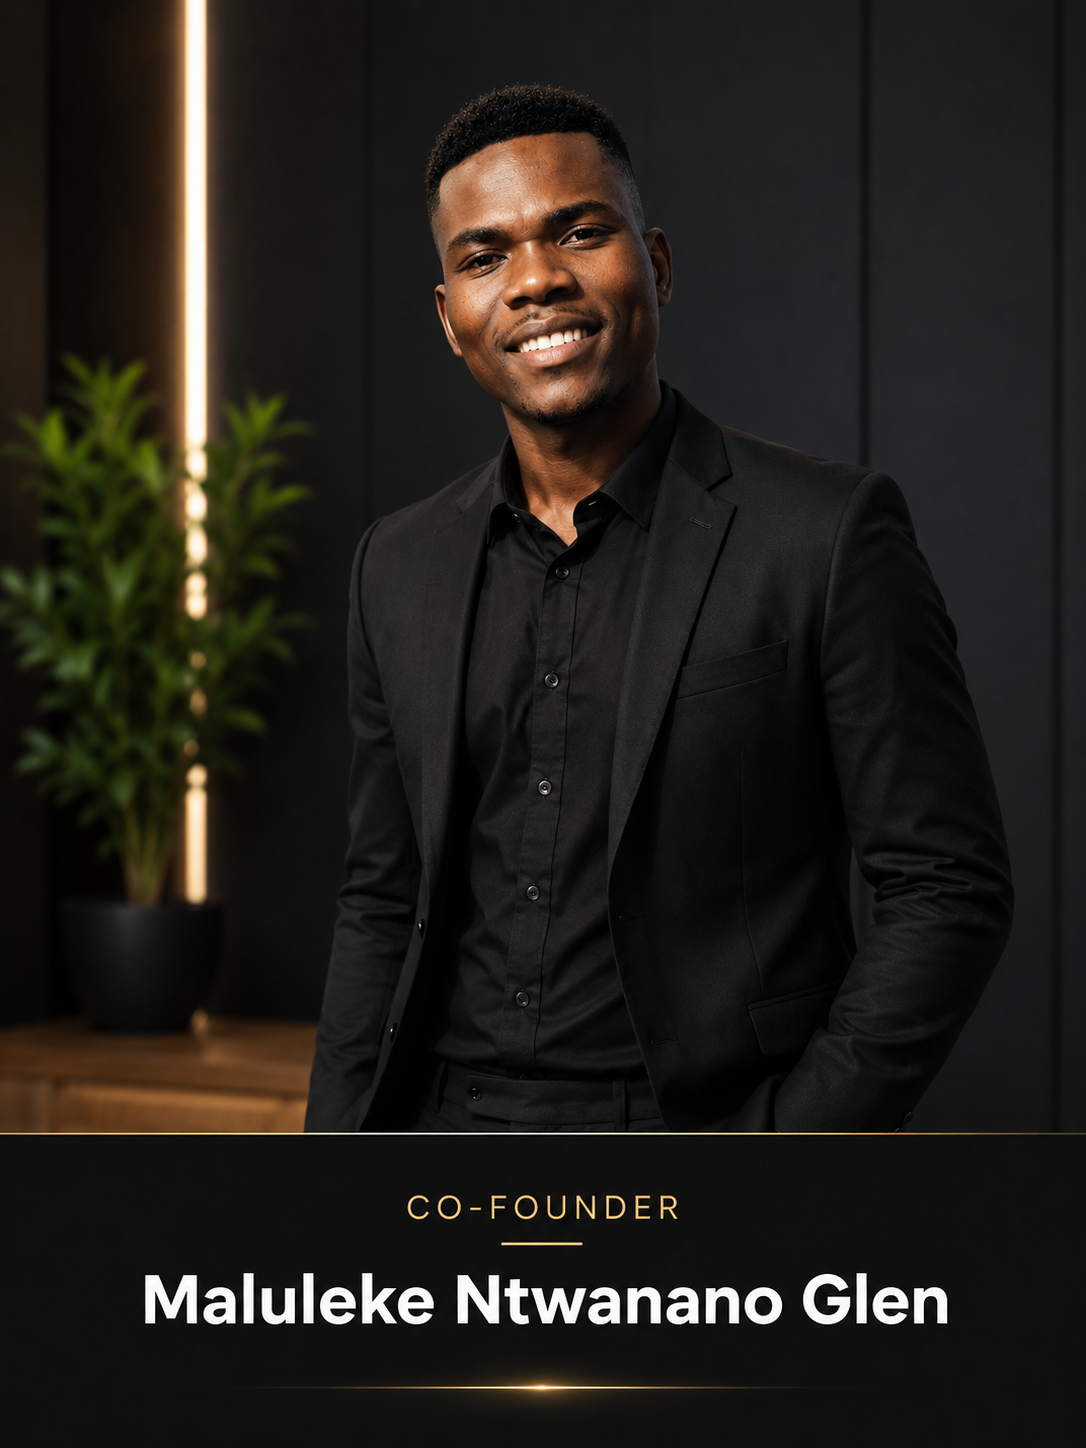
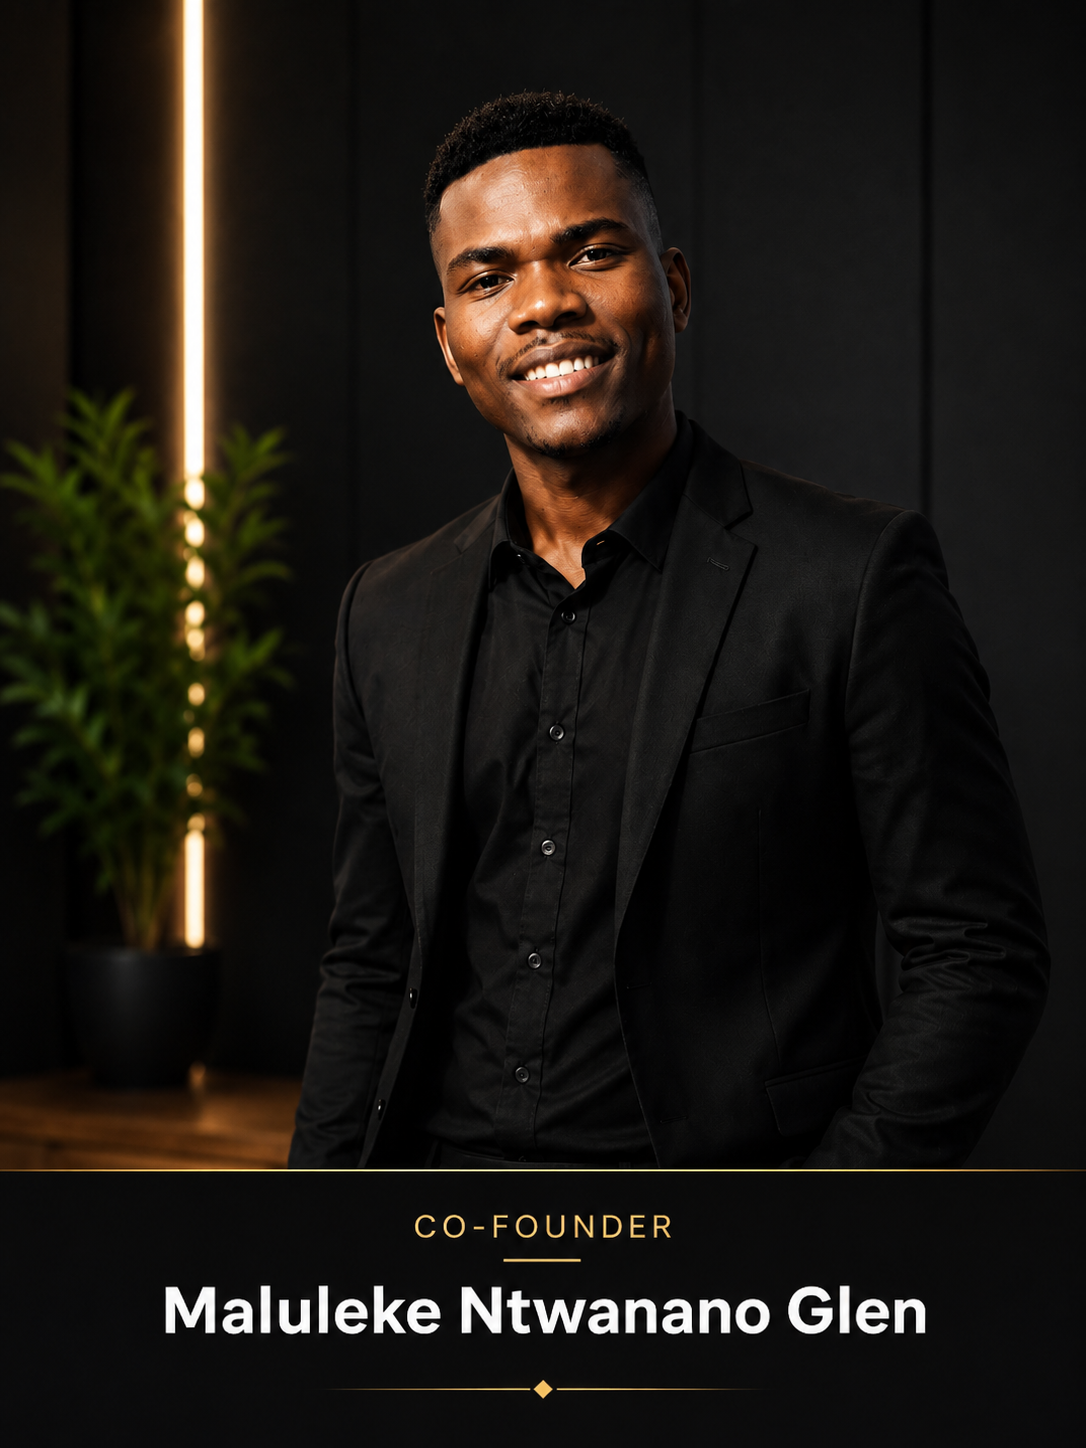
chore(website): the founders' portraits, re-cut as a matching set (#240)
All four brothers now share one treatment: same dark studio background, same
3:4 frame at 1086x1448, same gold role line and name band across the foot.

This settles three things the hero was working around. Kurhula had no card at
all — a raw photograph on a tan background — so as the first slide every visitor
saw, he read weaker than the other three; he now carries FOUNDER & CHAIRMAN like
the rest carry theirs. Risima's was square while the others were 3:4, which made
his slide sit visibly wider and drift further across the headline. And his was
on light grey, so the blurred wash behind the hero jumped from dark to bright
and back on every rotation. All four are dark now, and the cycle is seamless.

Kurhula's file changes extension with the re-cut, so the reference follows it
from .jpg to .png.

Also corrects his surname: the data said "Malulele Risima Blessing" while his
own portrait, the filename, and his brothers all say Maluleke. The About page
had been spelling a founder's name wrong.

Both apps carry their own copy of these images; both are updated and verified
byte-identical.

Verified in the browser: all four render sharp and correctly framed, the name
band is legible above the hero's bottom bleed, and the rotation advances cleanly
between them. Browsers are served AVIF at roughly 55KB per portrait, not the
1.5MB source. turbo typecheck lint test 13/13 green, turbo build 3/3 green.

Worth knowing for next time: Next caches optimised images under
[…]

diff --git a/apps/website/lib/founders.ts b/apps/website/lib/founders.ts
@@ -20,7 +20,7 @@ export interface Founder {
 
 export const FOUNDERS: readonly Founder[] = [
   {
-    photo: '/founders/maluleke-kurhula-success.jpg',
+    photo: '/founders/maluleke-kurhula-success.png',
     name: 'Maluleke Kurhula Success',
     title: 'Founder & Chairman',
     bio: 'The visionary behind Xkimm Xa Mali Foundation. Kurhula identified the need for a disciplined, technology-powered approach to communal savings and built the platform from the ground up.',
@@ -37,7 +37,7 @@ export const FOUNDERS: readonly Founder[] = [
   },
   {
     photo: '/founders/maluleke-risima-blessing.png',
-    name: 'Malulele Risima Blessing',
+    name: 'Maluleke Risima Blessing',
     title: 'Co-Founder & Treasurer',
     bio: 'The financial custodian of the collective. Risima oversees financial integrity, ensures every contribution is accounted for, and guards the pool with unwavering discipline.',
     ring: 'ring-xxm-canopy/25',

diff --git a/apps/web/app/about/page.tsx b/apps/web/app/about/page.tsx
@@ -25,7 +25,7 @@ export const metadata: Metadata = {
 
 const founders = [
   {
-    photo: '/founders/maluleke-kurhula-success.jpg',
+    photo: '/founders/maluleke-kurhula-success.png',
     name: 'Maluleke Kurhula Success',
     title: 'Founder & Chairman',
     bio: 'The visionary behind Xkimm Xa Mali Foundation. Kurhula identified the need for a disciplined, technology-powered approach to communal savings and brought the collective to life.',
@@ -40,7 +40,7 @@ const founders = [
   },
   {
     photo: '/founders/maluleke-risima-blessing.png',
-    name: 'Malulele Risima Blessing',
+    name: 'Maluleke Risima Blessing',
     title: 'Co-Founder & Treasurer',
     bio: 'The financial custodian of the collective. Risima oversees financial integrity, ensures every contribution is accounted for, and guards the pool with discipline.',
     ring: 'ring-xxm-canopy/20',
